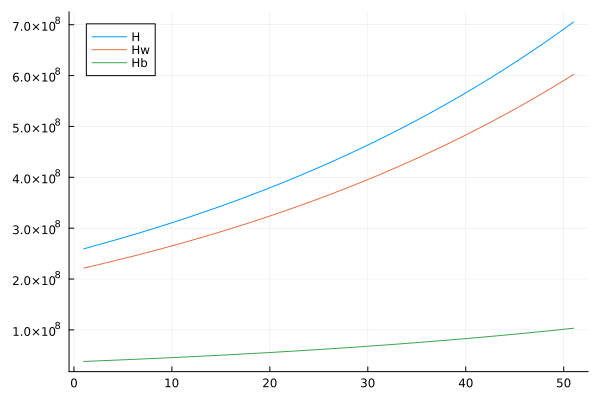
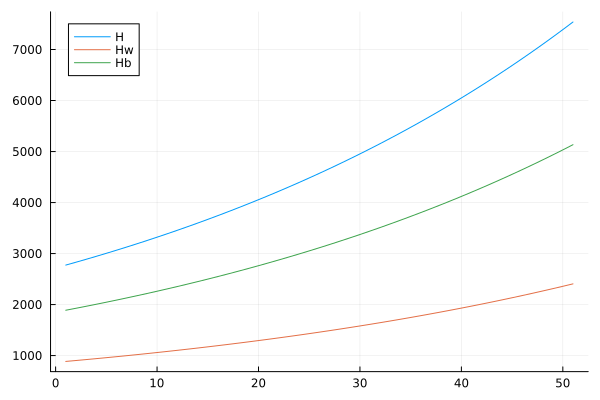
ver. 1.0.0 一応SFCモデルになったはず。

diff --git a/README.md b/README.md
@@ -1,7 +1,6 @@
 
-**汎用的なSFCモデルを目指す**
+**閉鎖経済ではあるものの汎用的なSFCモデルを目指す**
 
-- [課題/再現したいができていない性質/検討したいことリスト](#課題再現したいができていない性質検討したいことリスト)
 - [TEM](#tem)
 - [BSM](#bsm)
 - [式一覧](#式一覧)
@@ -9,135 +8,155 @@
 - [再現されるか確かめたい現象](#再現されるか確かめたい現象)
 - [政策の変化に対してどう反応するか](#政策の変化に対してどう反応するか)
 
-# 課題/再現したいができていない性質/検討したいことリスト
-- 政府債務残高対GDP比が大きすぎる問題。資産への税率が低い？キャピタルゲインへの税率が低い？投資家の消費性向が低い？
-- 金融機関から投資家への配当に、金融機関のストックの影響を含めるべきか？
-- 投資家の消費に、投資家のストックの影響を含めるべきか？
 
 # TEM
-|                            | 労働者(経常)  | 労働者(資本)  |   投資家(経常)    |   投資家(資本)   |  企業(経常)   |   企業(資本)   |   民間金融機関    |     統合政府     | 合計 |
-| :------------------------- | :-----------: | :-----------: | :---------------: | :--------------: | :-----------: | :------------: | :---------------: | :--------------: | :--: |
-| 流動消費                   |    $-C_w$     |               |      $-C_i$       |                  |     $+C$      |                |                   |                  | $0$  |
-| 消費財資産購入             |               |   $-C_{aw}$   |                   |    $-C_{ai}$     |    $+C_a$     |                |                   |                  | $0$  |
-| 投資                       |               |               |                   |                  |     $+I$      |      $-I$      |                   |                  | $0$  |
-| 政府支出(公務員給与を除く) |               |               |                   |                  |     $+G$      |                |                   |       $-G$       | $0$  |
-| 賃金                       |     $+W$      |               |                   |                  |    $-W_f$     |                |      $-W_b$       |      $-W_g$      | $0$  |
-| 所得税                     |   $-T_{iw}$   |               |     $-T_{ii}$     |                  |               |                |                   |      $+T_i$      | $0$  |
-| 付加価値税                 |               |               |                   |                  |    $-T_v$     |                |                   |      $+T_v$      | $0$  |
-| 法人税                     |               |               |                   |                  |   $-T_{ff}$   |                |     $-T_{fb}$     |      $+T_f$      | $0$  |
-| 資産税                     |   $-T_{aw}$   |               |     $-T_{ai}$     |                  |   $-T_{af}$   |                |                   | $+T_a$ | $0$  |
-| 株式のキャピタルゲインへの税 | | | $-T_{ci}$ | | | | $-T_{cb}$ | $+T_c$ | $0$ |
-| 企業利潤                   |               |               |      $+P_i$       |                  |     $-P$      |     $+P_f$     |      $+P_b$       |                  | $0$  |
-| 金融機関から投資家への配当 |               |               |       $+IT$       |                  |               |                |       $-IT$       |                  | $0$  |
-| 借入金利払い               | $-r_LL_{w-1}$ |               |                   |                  | $-r_LL_{f-1}$ |                |   $+r_LL_{-1}$    |                  | $0$  |
-| 国債金利払い               |               |               | $+r_{GB}GB_{i-1}$ |                  |               |                | $+r_{GB}GB_{b-1}$ | $-r_{GB}GB_{-1}$ | $0$  |
-| 労働者貯蓄                 |    $-S_w$     |    $+S_w$     |                   |                  |               |                |                   |                  | $0$  |
-| 投資家貯蓄                 |               |               |      $-S_i$       |      $+S_i$      |               |                |                   |                  | $0$  |
-| [メモ:純貸出]              |               |  [ $NL_w$ ]   |                   |     [$NL_i$]     |               |    [$NL_f$]    |     [$NL_b$]      |     [$NL_g$]     | $0$  |
-| 預金の変化                 |               | $-\Delta M_w$ |                   |  $-\Delta M_i$   |               | $-\Delta M_f$  |    $+\Delta M$    |                  | $0$  |
-| 借入金の変化               |               | $+\Delta L_w$ |                   |                  |               | $+\Delta L_f$  |    $-\Delta L$    |                  | $0$  |
-| 株式純発行                 |               |               |                   | $-p_e\Delta e_i$ |               | $+p_e\Delta e$ | $-p_e\Delta e_b$  |                  | $0$  |
-| 国債の変化                 |               |               |                   |  $-\Delta GB_i$  |               |                |  $-\Delta GB_b$   |   $+\Delta GB$   | $0$  |
-| 現金の変化                 |               | $-\Delta H_w$ |                   |                  |               |                |   $-\Delta H_b$   |   $+\Delta H$    | $0$  |
-| 合計                       |      $0$      |      $0$      |        $0$        |       $0$        |      $0$      |      $0$       |        $0$        |       $0$        |      |
+|                              | 労働者(経常)  | 労働者(資本)  |   投資家(経常)    |     投資家(資本)     |  企業(経常)   |     企業(資本)     |     民間金融機関     |     統合政府     | 合計 |
+| :--------------------------- | :-----------: | :-----------: | :---------------: | :------------------: | :-----------: | :----------------: | :------------------: | :--------------: | :--: |
+| 流動消費                     |    $-C_w$     |               |      $-C_i$       |                      |     $+C$      |                    |                      |                  | $0$  |
+| 消費財資産購入               |               |   $-C_{aw}$   |                   |      $-C_{ai}$       |    $+C_a$     |                    |                      |                  | $0$  |
+| 投資                         |               |               |                   |                      |     $+I$      |        $-I$        |                      |                  | $0$  |
+| 政府支出(公務員給与を除く)   |               |               |                   |                      |     $+G$      |                    |                      |       $-G$       | $0$  |
+| 賃金                         |     $+W$      |               |                   |                      |    $-W_f$     |                    |        $-W_b$        |      $-W_g$      | $0$  |
+| 所得税                       |   $-T_{iw}$   |               |     $-T_{ii}$     |                      |               |                    |                      |      $+T_i$      | $0$  |
+| 付加価値税                   |               |               |                   |                      |    $-T_v$     |                    |                      |      $+T_v$      | $0$  |
+| 法人税                       |               |               |                   |                      |   $-T_{ff}$   |                    |      $-T_{fb}$       |      $+T_f$      | $0$  |
+| 資産税                       |   $-T_{aw}$   |               |     $-T_{ai}$     |                      |   $-T_{af}$   |                    |                      |      $+T_a$      | $0$  |
+| 株式のキャピタルゲインへの税 |               |               |     $-T_{ci}$     |                      |               |                    |      $-T_{cb}$       |      $+T_c$      | $0$  |
+| 企業利潤                     |               |               |      $+P_i$       |                      |     $-P$      |       $+P_f$       |        $+P_b$        |                  | $0$  |
+| 金融機関から投資家への配当   |               |               |      $+TD_b$      |                      |               |                    |       $-TD_b$        |                  | $0$  |
+| 借入金利払い                 | $-r_LL_{w-1}$ |               |                   |                      | $-r_LL_{f-1}$ |                    |     $+r_LL_{-1}$     |                  | $0$  |
+| 国債金利払い                 |               |               | $+r_{GB}GB_{i-1}$ |                      |               |                    |  $+r_{GB}GB_{b-1}$   | $-r_{GB}GB_{-1}$ | $0$  |
+| 労働者貯蓄                   |    $-S_w$     |    $+S_w$     |                   |                      |               |                    |                      |                  | $0$  |
+| 投資家貯蓄                   |               |               |      $-S_i$       |        $+S_i$        |               |                    |                      |                  | $0$  |
+| [メモ:純貸出]                |               |  [ $NL_w$ ]   |                   |       [$NL_i$]       |               |      [$NL_f$]      |       [$NL_b$]       |     [$NL_g$]     | $0$  |
+| 預金の変化                   |               | $-\Delta M_w$ |                   |    $-\Delta M_i$     |               |   $-\Delta M_f$    |     $+\Delta M$      |                  | $0$  |
+| 借入金の変化                 |               | $+\Delta L_w$ |                   |                      |               |   $+\Delta L_f$    |     $-\Delta L$      |                  | $0$  |
+| 株式純発行                   |               |               |                   | $-p_{e-1}\Delta e_i$ |               | $+p_{e-1}\Delta e$ | $-p_{e-1}\Delta e_b$ |                  | $0$  |
+| 国債の変化                   |               |               |                   |    $-\Delta GB_i$    |               |                    |    $-\Delta GB_b$    |   $+\Delta GB$   | $0$  |
+| 現金の変化                   |               | $-\Delta H_w$ |                   |                      |               |                    |    $-\Delta H_b$     |   $+\Delta H$    | $0$  |
+| 合計                         |      $0$      |      $0$      |        $0$        |         $0$          |      $0$      |        $0$         |         $0$          |       $0$        |      |
 
 
 # BSM
-|             | 労働者  | 資本家  |  企業   | 民間金融部門 | 統合政府 | 合計  |
-| :---------- | :-----: | :-----: | :-----: | :----------: | :------: | :---: |
-| 資本        | $+K_w$  | $+K_i$  | $+K_f$  |              |          | $+K$  |
-| 預金        | $+M_w$  | $+M_i$  | $+M_f$  |     $-M$     |          |  $0$  |
-| 借入金      | $-L_w$  |         | $-L_f$  |     $+L$     |          |  $0$  |
-| 株式/資本金 |         | $+E_i$  |  $-E$   |    $+E_b$    |          |  $0$  |
-| 国債        |         | $+GB_i$ |         |   $+GB_b$    |  $-GB$   |  $0$  |
-| 現金        | $+H_w$  |         |         |    $+H_b$    |   $-H$   |  $0$  |
-| 純資産      | $-NW_w$ | $-NW_i$ | $-NW_f$ |   $-NW_b$    | $-NW_g$  | $-NW$ |
-| 合計        |   $0$   |   $0$   |   $0$   |     $0$      |   $0$    |  $0$  |
+|                    | 労働者  |     資本家      |  企業   | 民間金融部門 | 統合政府 | 合計  |
+| :----------------- | :-----: | :-------------: | :-----: | :----------: | :------: | :---: |
+| 資本               | $+K_w$  |     $+K_i$      | $+K_f$  |              |          | $+K$  |
+| 預金               | $+M_w$  |     $+M_i$      | $+M_f$  |     $-M$     |          |  $0$  |
+| 借入金             | $-L_w$  |                 | $-L_f$  |     $+L$     |          |  $0$  |
+| 企業の株式         |         |     $+E_i$      |  $-E$   |    $+E_b$    |          |  $0$  |
+| 民間金融機関の株式 |         | $+D$ |         | $-D$ |          |  $0$  |
+| 国債               |         |     $+GB_i$     |         |   $+GB_b$    |  $-GB$   |  $0$  |
+| 現金               | $+H_w$  |                 |         |    $+H_b$    |   $-H$   |  $0$  |
+| 純資産             | $-NW_w$ |     $-NW_i$     | $-NW_f$ |   $-NW_b$    | $-NW_g$  | $-NW$ |
+| 合計               |   $0$   |       $0$       |   $0$   |     $0$      |   $0$    |  $0$  |
 
 # 式一覧
 上から順に計算する
 
 - $W_f=(1-\lambda_w)W_{f-1}+\lambda_w\delta(C_{-1}+C_{a-1}+I_{-1}+G_{-1}-T_{v-1}-T_{af-1}-r_LL_{f-1})$
-- $W_b=(1-\lambda_w)W_{b-1}+\lambda_w\delta(-T_{cb-1}+P_{b-1}-IT_{-1}+r_LL_{-1}+r_{GB}GB_{b-1})$
+- $W_b=(1-\lambda_w)W_{b-1}+\lambda_w\delta(-T_{cb-1}+P_{b-1}-TD_{b-1}+r_LL_{-1}+r_{GB}GB_{b-1})$
 - $W_g=W_{g0}\exp(\gamma t)$
 - $W=W_f+W_b+W_g$
 - $T_{iw}=\epsilon_1 W$
-- $T_{ci}=\max\{0, \epsilon_7\Delta p_{e-1}(e_{i-1}-\Delta e_{i-1})+\epsilon_9(E_{i-1}-\Delta E_{i-1})\}$
-- $T_{cb}=\max\{0, \epsilon_7\Delta p_{e-1}(e_{b-1}-\Delta e_{b-1})+\epsilon_9(E_{b-1}-\Delta E_{b-1})\}$
+- $T_{ci}=\max\{0, \epsilon_7\Delta p_{e-1}(e_{i-1}-\Delta e_{i-1})+\epsilon_9(E_{i-1}+D_{-1})\}$
+- $T_{cb}=\max\{0, \epsilon_7\Delta p_{e-1}(e_{b-1}-\Delta e_{b-1})+\epsilon_9E_{b-1}\}$
 - $T_c=T_{ci}+T_{cb}$
-- $G=G_0\exp(\gamma t)$
-- $C_w=\alpha_4\{\alpha_1(W-T_{iw}-T_{aw}-r_LL_{w-1})+\alpha_2(NW_{w-1}-K_{w-1})\}$
-- $C_i=\alpha_5\alpha_3(P_{i-1}+IT_{-1}-T_{ii}-T_{ai}-T_{ci}+r_{GB}GB_{i-1})$
-- $C=C_w+C_i$
-- $C_{aw}=(1-\alpha_4)\{\alpha_1(W-T_{iw}-T_{aw}-r_LL_{w-1})+\alpha_2(NW_{w-1}-K_{w-1})\}$
-- $C_{ai}=(1-\alpha_5)\alpha_3(P_{i-1}-T_{ii}-T_{ai}+r_{GB}GB_{i-1})$
-- $C_a=C_{aw}+C_{ai}$
-- $I=\max[0, \min\{(\frac{C+C_a+G}{\beta_1 K_{f-1}}-u^T)K_{f-1}+\beta_2K_{f-1}, \beta_3(M_{f-1}-L_{f-1})\}]$
-- $T_v=\epsilon_2(C+C_a+G+I)$
-- $T_{ff}=\max\{0,\epsilon_3(C+C_a+G+I-W_f-T_v-T_{af}-r_LL_{f-1})\}$
 - $T_{aw}=\epsilon_5K_{w-1} + \epsilon_8(M_{w-1}-L_{i-1})$
 - $T_{ai}=\epsilon_5K_{i-1} + \epsilon_8(M_{i-1}+E_{i-1}+GB_{i-1})$
 - $T_{af}=\epsilon_6K_{f-1}$
 - $T_a=T_{aw}+T_{ai}+T_{af}$
+- $G=G_0\exp(\gamma t)$
+- $C_w=\alpha_4\{\alpha_1(W-T_{iw}-T_{aw}-r_LL_{w-1})+\alpha_2(NW_{w-1}-K_{w-1})\}$
+- $C_i=\alpha_5\{\alpha_3(P_{i-1}+TD_{b-1}-T_{ii-1}-T_{ai-1}-T_{ci}+r_{GB}GB_{i-1})+\alpha_6(M_{i-1}+E_{i-1}+D_{-1}+GB_{i-1})\}$
+- $C=C_w+C_i$
+- $C_{aw}=(1-\alpha_4)\{\alpha_1(W-T_{iw}-T_{aw}-r_LL_{w-1})+\alpha_2(NW_{w-1}-K_{w-1})\}$
+- $C_{ai}=(1-\alpha_5)\{\alpha_3(P_{i-1}+TD_{b-1}-T_{ii-1}-T_{ai-1}-T_{ci}+r_{GB}GB_{i-1})+\alpha_6(M_{i-1}+E_{i-1}+D_{-1}+GB_{i-1})\}$
+- $C_a=C_{aw}+C_{ai}$
+- $I=\max[0, \min\{(\frac{C+C_a+G}{\beta_1 K_{f-1}}-u^T)K_{f-1}+\beta_2K_{f-1}, \beta_3(M_{f-1}-L_{f-1})\}]$
+- $T_v=\epsilon_2(C+C_a+G+I)$
+- $T_{ff}=\max\{0,\epsilon_3(C+C_a+G+I-W_f-T_v-T_{af}-r_LL_{f-1})\}$
 - $P=C+C_a+G+I-W_f-T_v-T_{ff}-T_{af}-r_LL_{f-1}$
-- $TD = \zeta_1(P-I)+\zeta_2(M_{f-1}-L_{f-1})$
-- $P_i=TD\frac{E_{i-1}}{E_{-1}}$
-- $P_b=TD\frac{E_{b-1}}{E_{-1}}$
+- $TD_f = \max\{0, \zeta_1(P-I)+\zeta_2(M_{f-1}-L_{f-1})\}$
+- $P_i=TD_f\frac{E_{i-1}}{E_{-1}}$
+- $P_b=TD_f\frac{E_{b-1}}{E_{-1}}$
 - $P_f=P-P_i-P_b$
-- $IT=\theta_1 P_b + \theta_2 NL_{b-1}$
-- $T_{ii}=\epsilon_4(P_i+IT+r_{GB}GB_{i-1})$
+- $TD_b=\max\{0, \theta_1 (-M_{-1}+L_{-1}+E_{b-1}+GB_{b-1}+H_{b-1})+ \theta_2 NL_{b-1}\}$
+- $T_{ii}=\epsilon_4(P_i+TD_b+r_{GB}GB_{i-1})$
 - $T_i=T_{iw}+T_{ii}$
 - $T_{fb}=\max\{0, \epsilon_3(-W_b+P_b+r_LL_{-1}+r_{GB}GB_{b-1})\}$
 - $T_f=T_{ff}+T_{fb}$
 - $S_w=-C_w+W-T_{iw}-T_{aw}-r_LL_{w-1}$
-- $S_i=-C_i-T_{ii}-T_{ai}-T_{ci}+P_i+IT+r_{GB}GB_{i-1}$
+- $S_i=-C_i-T_{ii}-T_{ai}-T_{ci}+P_i+TD_b+r_{GB}GB_{i-1}$
 - $NL_w=-C_{aw}+S_w$
 - $NL_i=-C_{ai}+S_i$
 - $NL_f=P_f-I$
-- $NL_b=-W_b-T_{fb}-T_{cb}+P_b-S+r_LL_{-1}+r_{GB}GB_{b-1}$
+- $NL_b=-W_b-T_{fb}-T_{cb}+P_b-TD_b+r_LL_{-1}+r_{GB}GB_{b-1}$
 - $NL_g=-G-W_g+T_i+T_v+T_f+T_a+T_c-r_{GB}GB_{-1}$
-- $L_w=\eta_1(W-T_{iw}-T_{aw}-r_LL_{w-1})$
+- $L_w=\max\{\eta_1(W-T_{iw}-T_{aw}-r_LL_{w-1})\}$
 - $\Delta L_w=L_w-L_{w-1}$
 - $H_w=\eta_2C_w$
 - $\Delta H_w=H_w-H_{w-1}$
 - $\Delta M_w=NL_w+\Delta L_w-\Delta H_w$
 - $M_w=M_{w-1}+\Delta M_w$
-- $V_i=M_i+E_i+GB_i$
-- $V_b=E_b+GB_b$
 - $V_i^e=(1-\lambda_V)V_{i-1}^e+\lambda_VV_{i-1}\frac{V_{i-1}}{V_{i-1}-\Delta V_{i-1}}$
 - $V_b^e=(1-\lambda_V)V_{b-1}^e+\lambda_VV_{b-1}\frac{V_{b-1}}{V_{b-1}-\Delta V_{b-1}}$
-- $Δe=\frac{\eta_3(I-\beta_2K_{f-1})}{p_{e-1}}$
+- $\Delta e=\frac{\eta_3(I-\beta_2K_{f-1})}{p_{e-1}}$
 - $e=e_{-1}+\Delta e$
 - $L_f=\max(0, (1+\eta_4)W-M_{f-1})$
 - $\Delta L_f=L_f-L_{f-1}$
 - $\Delta L=\Delta L_w+\Delta L_f$
 - $L=L_{-1}+\Delta L$
-- $\Delta M_f=NL_f+\Delta L_f$
+- $\Delta M_f=NL_f+\Delta L_f+p_{e-1}\Delta e$
 - $M_f=M_{f-1}+\Delta M_f$
 
 $$
 \begin{pmatrix}
   M_i \\
   E_i^e \\
+  D \\
   GB_i^e
 \end{pmatrix}=
 \begin{pmatrix}
   \lambda_{10} \\
   \lambda_{20} \\
-  \lambda_{30}
+  \lambda_{30} \\
+  \lambda_{40}
 \end{pmatrix}V_i^e+
 \begin{pmatrix}
-  \lambda_{11} & \lambda_{12} & \lambda_{13}\\
-  \lambda_{21} & \lambda_{22} & \lambda_{23}\\
-  \lambda_{31} & \lambda_{23} & \lambda_{33}
+  \lambda_{11} & \lambda_{12} & \lambda_{13} & \lambda_{14}\\
+  \lambda_{21} & \lambda_{22} & \lambda_{23} & \lambda_{24}\\
+  \lambda_{31} & \lambda_{23} & \lambda_{33} & \lambda_{34}\\
+  \lambda_{41} & \lambda_{43} & \lambda_{43} & \lambda_{44}
 \end{pmatrix}
 \begin{pmatrix}
   0 \\
-  \frac{TD}{E_{-1}} \\
+  \frac{TD_f}{E_{-1}} \\
+  \frac{TD_b}{D_{-1}}\\
   r_{GB}
 \end{pmatrix}V_i^e
 $$
 
+$$
+\begin{pmatrix}
+  E_b^e \\
+  GB_b^e
+\end{pmatrix}=
+\begin{pmatrix}
+  \lambda_{50} \\
+  \lambda_{60}
+\end{pmatrix}V_b^e+
+\begin{pmatrix}
+  \lambda_{51} & \lambda_{52}\\
+  \lambda_{61} & \lambda_{62}
+\end{pmatrix}
+\begin{pmatrix}
+  \frac{TD_f}{E_{-1}} \\
+  r_{GB}
+\end{pmatrix}V_b^e
+$$
+
+- $p_e=\frac{E_i^e+E_b^e}{e}$
+- $\Delta p_e = p_e-p_{e-1}$
 - $\Delta M_i=M_i-M_{i-1}$
 - $\Delta M=\Delta M_w+\Delta M_i+\Delta M_f$
 - $M=M_{-1}+\Delta M$
@@ -146,56 +165,38 @@ $$
 - $\Delta H=\Delta H_w+\Delta H_b$
 - $H=H_{-1}+\Delta H$
 - $\Delta GB=-NL_g-\Delta H$
-
-$$
-\begin{pmatrix}
-  E_b^e \\
-  GB_b^e
-\end{pmatrix}=
-\begin{pmatrix}
-  \lambda_{40} \\
-  \lambda_{50}
-\end{pmatrix}V_b^e+
-\begin{pmatrix}
-  \lambda_{41} & \lambda_{42}\\
-  \lambda_{51} & \lambda_{52}
-\end{pmatrix}
-\begin{pmatrix}
-  \frac{TD}{E_{-1}} \\
-  r_{GB}
-\end{pmatrix}V_b^e
-$$
-
+- $GB=GB_{-1}+\Delta GB$
 - $GB_i=GB\frac{GB_i^e}{GB_i^e+GB_b^e}$
 - $GB_b=GB\frac{GB_b^e}{GB_i^e+GB_b^e}$
 - $\Delta GB_i=GB_i-GB_{i-1}$
 - $\Delta GB_b=GB_b-GB_{b-1}$
-- $p_e=\frac{E_i^e+E_b^e}{e}$
-- $\Delta p_e=p_e-p_{e-1}$
-- $Δe_i=\frac{1}{p_e}(NL_i-\Delta M_i-\Delta GB_i)$
-- $\Delta e_b=\Delta e-\Delta e_i$
+- $\Delta e_i=\frac{1}{p_{e-1}}(NL_i-\Delta M_i-\Delta GB_i)$
+- $\Delta e_b=\Delta e-\Delta e_b$
 - $e_i=e_{i-1}+\Delta e_i$
 - $e_b=e_{b-1}+\Delta e_b$
-- $\Delta E_i=\Delta p_e e_{i-1}+p_e\Delta e_i$
-- $\Delta E_b=\Delta p_e e_{b-1}+p_e\Delta e_b$
+- $\Delta E_i=\Delta p_e e_i+p_{e-1}\Delta e_i$
+- $\Delta E_b=\Delta p_e e_b+p_{e-1}\Delta e_b$
 - $E_i=E_{i-1}+\Delta E_i$
 - $E_b=E_{b-1}+\Delta E_b$
 - $\Delta E=\Delta E_i+\Delta E_b$
 - $E=E_{-1}+\Delta E$
+- $V_i=M_i+E_i+D+GB_i$
+- $V_b=E_b+GB_b$
+- $\Delta D = D-D_{-1}$
 - $K_f=(1-\beta_2)K_{f-1}+I$
 - $K_w=(1-\beta_4)K_{w-1}+C_{aw}$
 - $K_i=(1-\beta_4)K_{i-1}+C_{ai}$
 - $K=K_w+K_i+K_f$
 - $NW_w=K_w+M_w-L_w+H_w$
-- $NW_i=K_i+M_i+E_i+GB_i$
+- $NW_i=K_i+M_i+E_i+D+GB_i$
 - $NW_f=M_f-L_f-E+K_f$
-- $NW_b=-M+L+E_b+GB_b+H_b$
+- $NW_b=-M+L+E_b-D+GB_b+H_b$
 - $NW_g=-GB-H$
 - $NW=K$
 
 隠れた恒等式として
-- $NL_b+\Delta M-\Delta L-p_e\Delta e_b-GB_b-H_b=0$
-- $\Delta E=\Delta p_e e_{-1}+p_e\Delta e$
+- $NL_b+\Delta M-\Delta L-p_{e-1}\Delta e_b-\Delta GB_b-\Delta H_b=0$
+- $\Delta E=\Delta p_e e+p_{e-1}\Delta e$
 - $M=M_w+M_i+M_f$
 - $L=L_w+L_f$
 - $E=E_i+E_b$
@@ -204,26 +205,29 @@ $$
 - $NW=NW_w+NW_i+NW_f+NW_b+NW_g$
 
 # 外生変数とパラメータ
-- $(\alpha_1, \alpha_2, \alpha_3, \alpha_4, \alpha_5)=(0.9, 0.05, 0.2, 0.9, 0.7)$
+- $(\alpha_1, \alpha_2, \alpha_3, \alpha_4, \alpha_5, \alpha_6)=(0.9, 0.05, 0.2, 0.9, 0.7, 0.01)$
 - $(\beta_1, \beta_2, \beta_3, \beta_4)=(1,0.05,1, 0.05)$
 - $\gamma=0.02$
 - $\delta=0.65$
-- $(\epsilon_1, \epsilon_2, \epsilon_3, \epsilon_4, \epsilon_5, \epsilon_6, \epsilon_7, \epsilon_8)=(0.3,0.1,0.2,0.2, 0.03, 0.02, 0.2, 0.01)$
+- $(\epsilon_1, \epsilon_2, \epsilon_3, \epsilon_4, \epsilon_5, \epsilon_6, \epsilon_7, \epsilon_8, \epsilon_9)=(0.3,0.1,0.2,0.2, 0.03, 0.03, 0.2, 0.01, 0.02)$
 - $\zeta_1, \zeta_2 =0.3, 0.05$
-- $(\eta_1,\eta_2,\eta_3,\eta_4,\eta_5)=(5,0.1,0.3,0.5,0.01)$
-- $(\theta_1, \theta_2)=(0.3, 0.2)$
+- $(\eta_1,\eta_2,\eta_3,\eta_4,\eta_5)=(5,0.05,1,1,0.01)$
+- $(\theta_1, \theta_2)=(0.05, 0.3)$
 - $(\lambda_V, \lambda_w)=(0.5, 0.5)$
-- $(\lambda_{10}, \lambda_{20}, \lambda_{30})=(0.3, 0.4, 0.3)$
+- $(\lambda_{10}, \lambda_{20}, \lambda_{30}, \lambda_{40})=(0.3, 0.3, 0.1, 0.3)$
 
 $$
 \begin{pmatrix}
-  \lambda_{11} & \lambda_{12} & \lambda_{13}\\
-  \lambda_{21} & \lambda_{22} & \lambda_{23}\\
-  \lambda_{31} & \lambda_{23} & \lambda_{33}
+  \lambda_{11} & \lambda_{12} & \lambda_{13} & \lambda_{14}\\
+  \lambda_{21} & \lambda_{22} & \lambda_{23} & \lambda_{24}\\
+  \lambda_{31} & \lambda_{23} & \lambda_{33} & \lambda_{34}\\
+  \lambda_{41} & \lambda_{43} & \lambda_{43} & \lambda_{44}
 \end{pmatrix}=
-\begin{pmatrix}  1 & -0.5 & -0.5\\
-  -0.5 & 1 & -0.5\\
-  -0.5 & -0.5 & 1
+\begin{pmatrix}
+  1 & -0.3 & -0.3 & -0.4\\
+  -0.3 & 1 & -0.4 & -0.3\\
+  -0.3 & -0.4 & 1 & -0.3\\
+  -0.4 & -0.3 & -0.3 & 1
 \end{pmatrix}
 $$
 
@@ -235,8 +239,8 @@ $$
   \lambda_{51} & \lambda_{52}
 \end{pmatrix}=
 \begin{pmatrix}
-  0.7 & -0.7\\
-  -0.7 & 0.7
+  0.5 & -0.5\\
+  -0.5 & 0.5
 \end{pmatrix}
 $$
 
